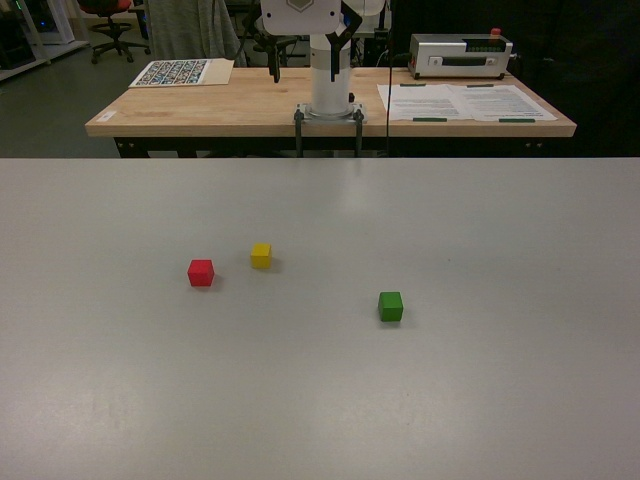
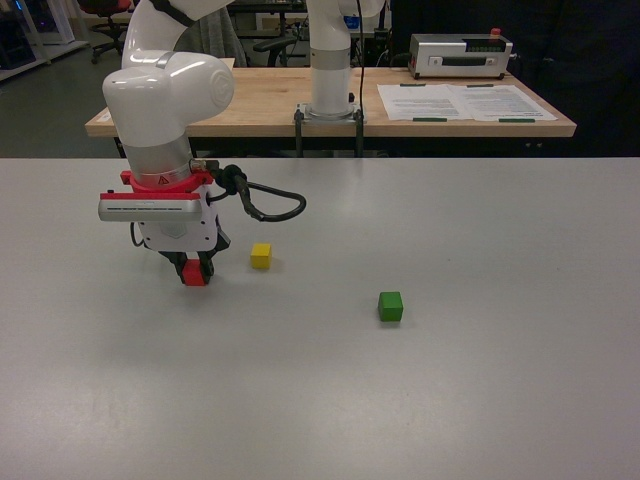
minor

diff --git a/robot.py b/robot.py
@@ -678,7 +678,7 @@ class Robot:
             # Execute the action using grasp
             print(f"   Executing action: [{action[0]:.1f}, {action[1]:.1f}, {action[2]:.1f}, {action[3]}]")
             time.sleep(2)
-            self.grasp(action)
+            # self.grasp(action)
             print(f"   ✓ Action executed successfully")
             print(f"\nStep {step + 1} completed.")
             step += 1
